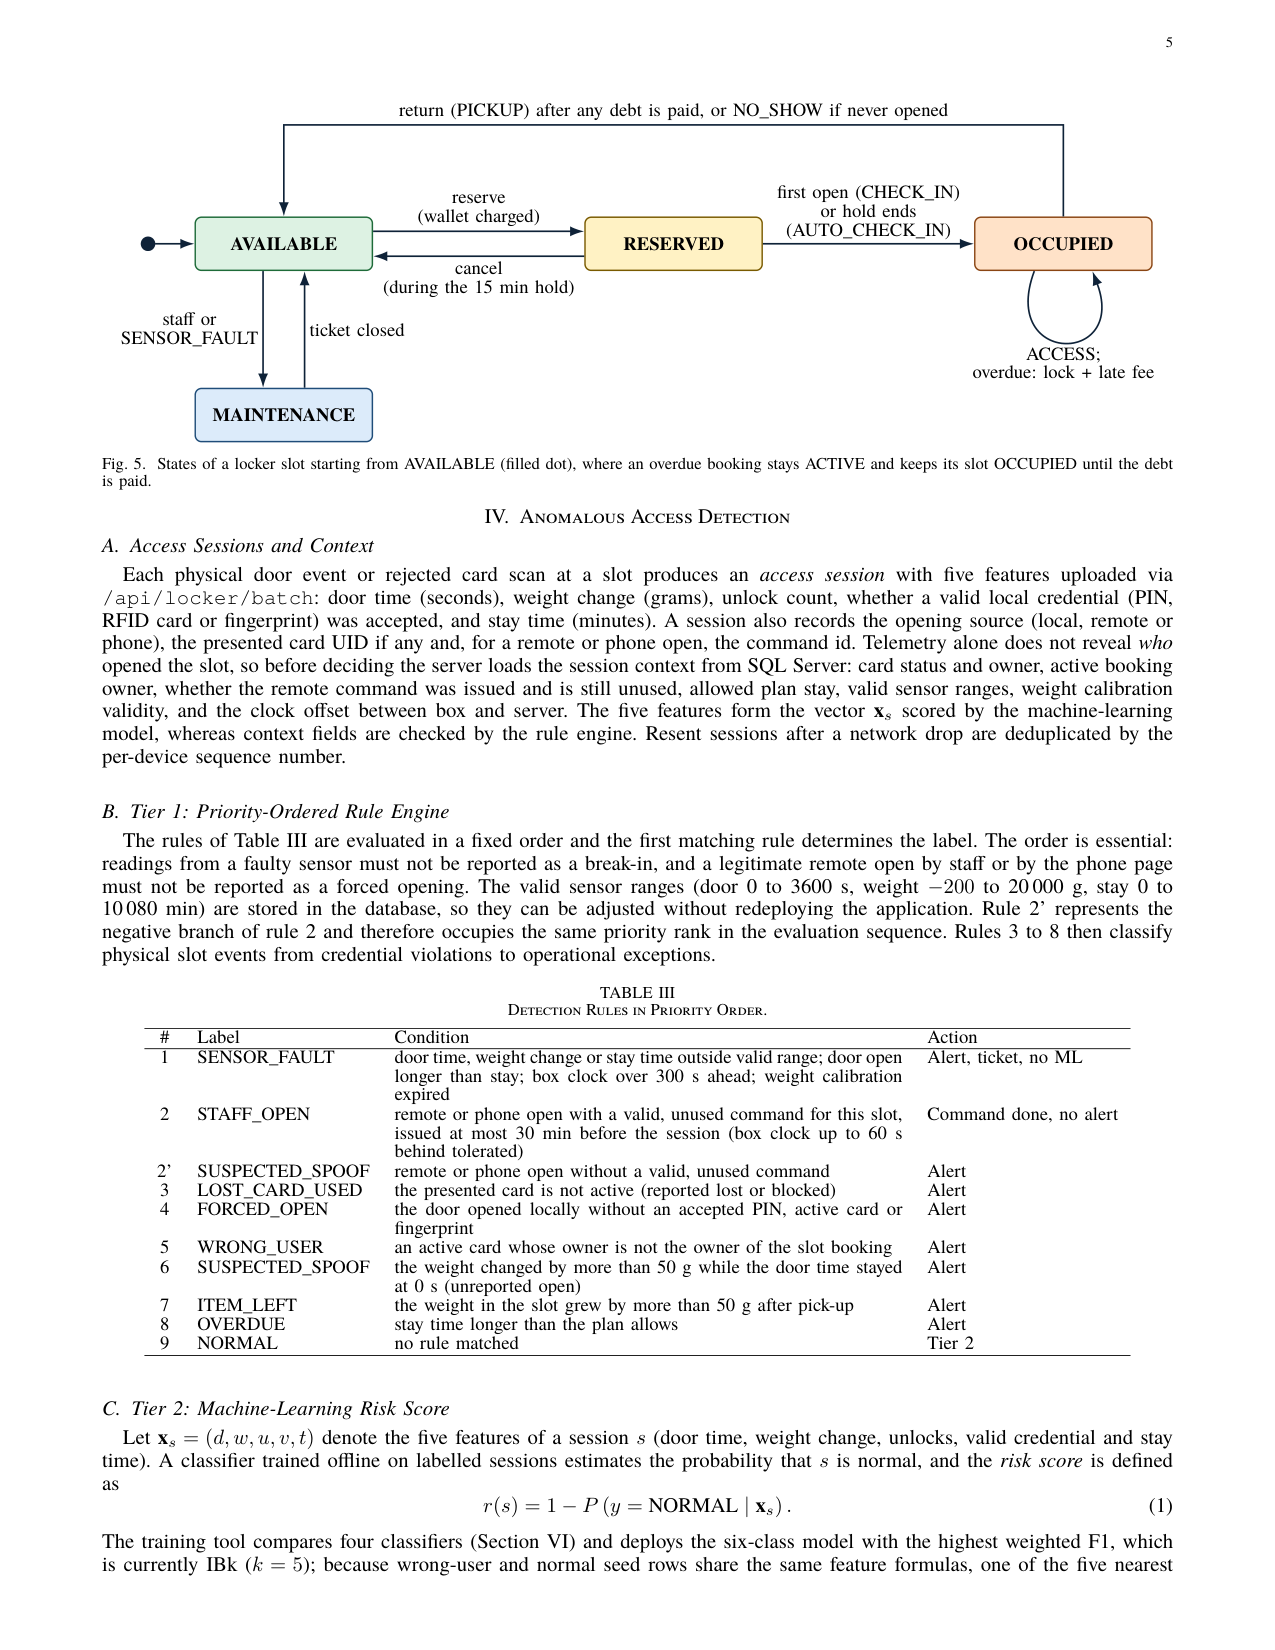
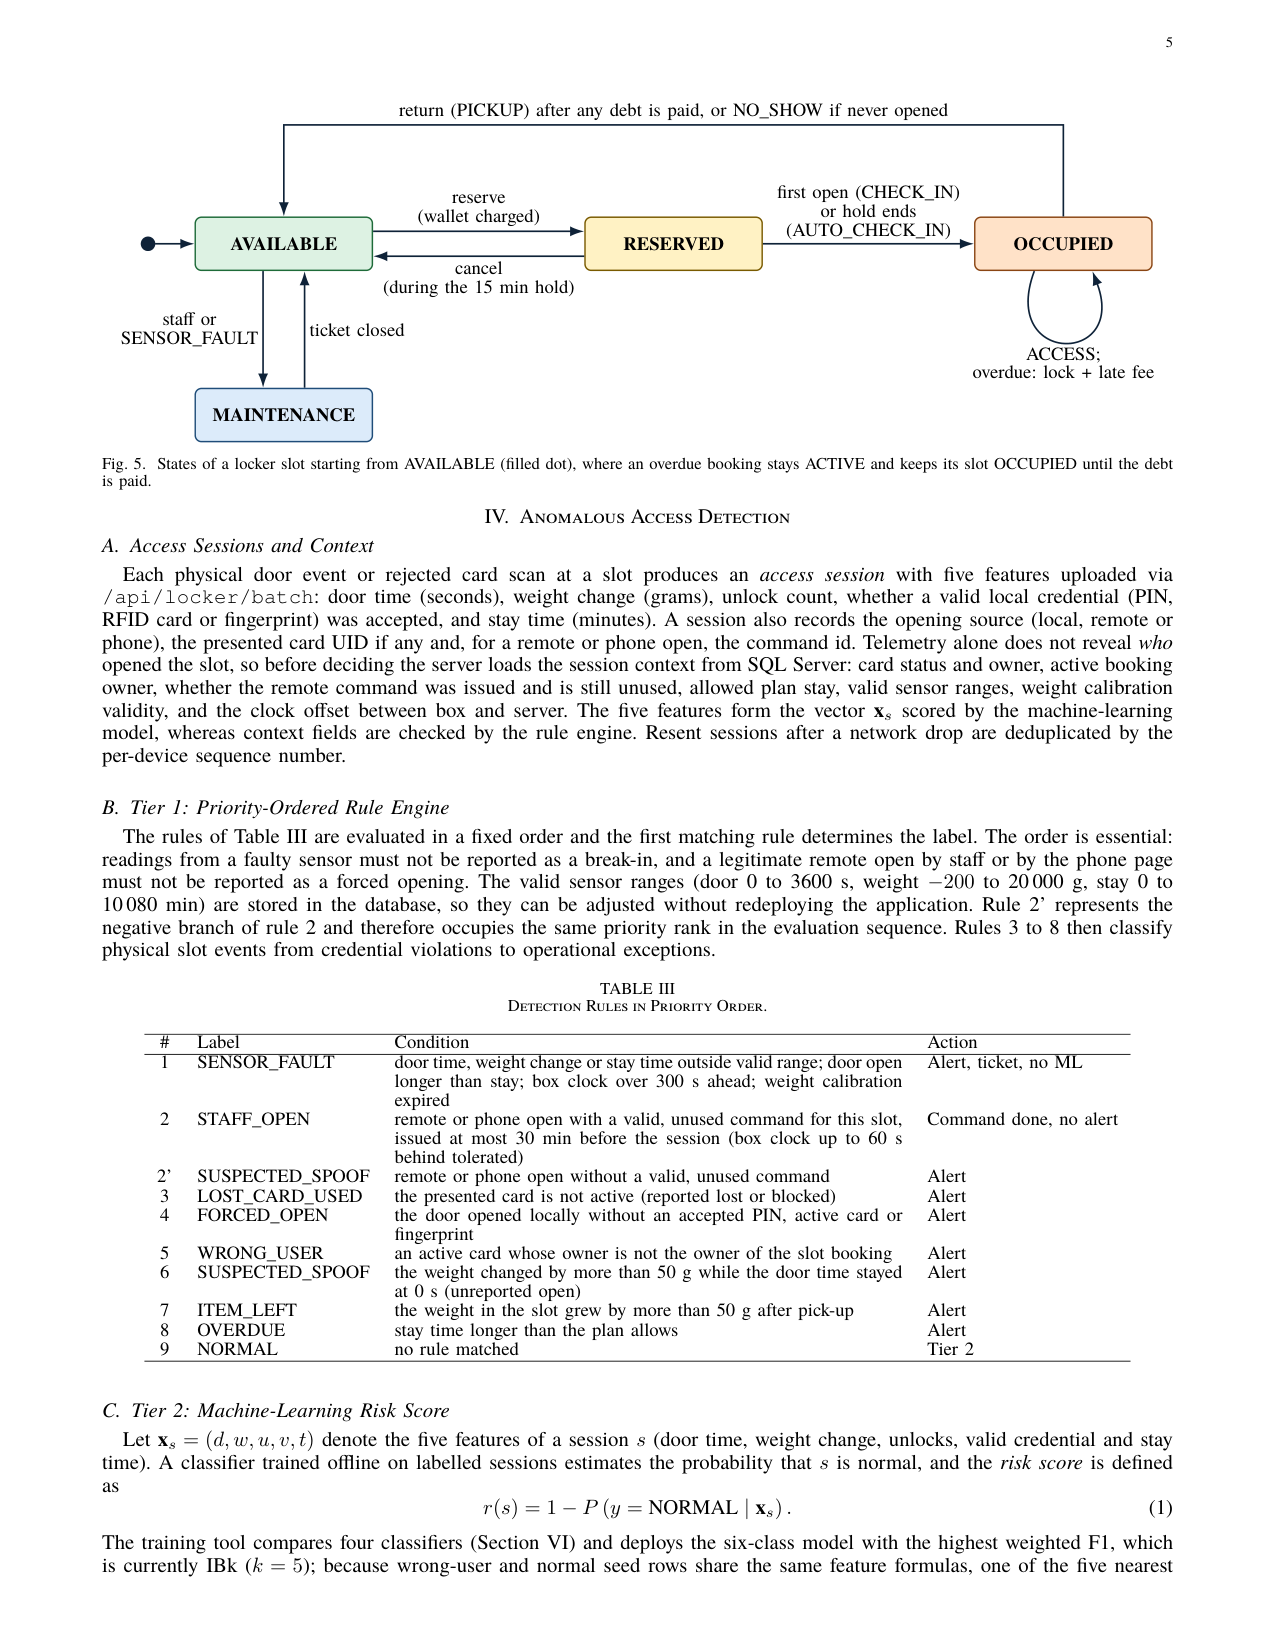
docs(paper): add vertical spacing between table captions and tables to fix collision

Changed region(s): [[0.0612, 0.34, 0.9176, 0.9582], [0.8259, 0.34, 0.8565, 0.3709], [0.3365, 0.34, 0.3671, 0.3709]]

diff --git a/docs/paper/smartlocker-10p.tex b/docs/paper/smartlocker-10p.tex
@@ -71,7 +71,7 @@
 \setlength{\floatsep}{4pt plus 1pt minus 1pt}
 \setlength{\intextsep}{4pt plus 1pt minus 1pt}
 \setlength{\abovecaptionskip}{2pt}
-\setlength{\belowcaptionskip}{0pt}
+\setlength{\belowcaptionskip}{5pt}
 \AtBeginDocument{%
   \setlength{\abovedisplayskip}{3pt plus 1pt minus 1pt}%
   \setlength{\belowdisplayskip}{3pt plus 1pt minus 1pt}%
@@ -138,6 +138,7 @@ Section~VI reports the evaluation and Section~VII concludes the paper.
 \small
 \caption{Contributions of This Work and Where They Are Shown.}
 \label{tab:contrib}
+\vspace{5pt}
 \begin{tabular}{c p{11.9cm} p{2.7cm}}
 \hline
 No. & Contribution & Where it is shown \\
@@ -288,6 +289,7 @@ the I$^2$C bus on GPIO 21 and 22, while the AS608 sensor uses UART on GPIO 35 an
 \small
 \caption{Hardware Components of the Locker Box.}
 \label{tab:hw}
+\vspace{5pt}
 \begin{tabular}{l l l}
 \hline
 Component & Function & ESP32 pins \\
@@ -473,6 +475,7 @@ operational exceptions.
 \small
 \caption{Detection Rules in Priority Order.}
 \label{tab:rules}
+\vspace{5pt}
 \begin{tabular}{c l p{8.6cm} l}
 \hline
 \# & Label & Condition & Action \\
@@ -612,6 +615,7 @@ All opening methods cost the same.
 \small
 \caption{Prices by Plan and Slot Size (VND).}
 \label{tab:price}
+\vspace{5pt}
 \begin{tabular}{l r r r}
 \hline
 Plan & S & M & L \\
@@ -695,6 +699,7 @@ server processing time of a local authentication request.
 \small
 \caption{10-Fold Cross-Validation Results of the Evaluated Classifiers (Weighted Averages).}
 \label{tab:ml}
+\vspace{5pt}
 \begin{tabular}{l c c c c c c}
 \hline
  & \multicolumn{4}{c}{Six classes} & \multicolumn{2}{c}{Binary} \\
@@ -847,6 +852,7 @@ own \emph{checkin} case sent only a heartbeat, which no longer checks a booking 
 \small
 \caption{Detection Scenarios Replayed through the Device API.}
 \label{tab:scen}
+\vspace{5pt}
 \begin{tabular}{l >{\raggedright\arraybackslash}p{4.8cm} >{\raggedright\arraybackslash}p{3.6cm} >{\raggedright\arraybackslash}p{5.2cm}}
 \hline
 Scenario & Input & Expected & Observed \\
@@ -879,6 +885,7 @@ of the box, which comes every 3~s. In a separate session with the box online, 20
 \small
 \caption{Server-Side Response Time of the Device API (localhost, 30 Requests Each, ms).}
 \label{tab:latency}
+\vspace{5pt}
 \begin{tabular}{l c c c c c}
 \hline
 Request & Mean & Median & p95 & Min & Max \\
